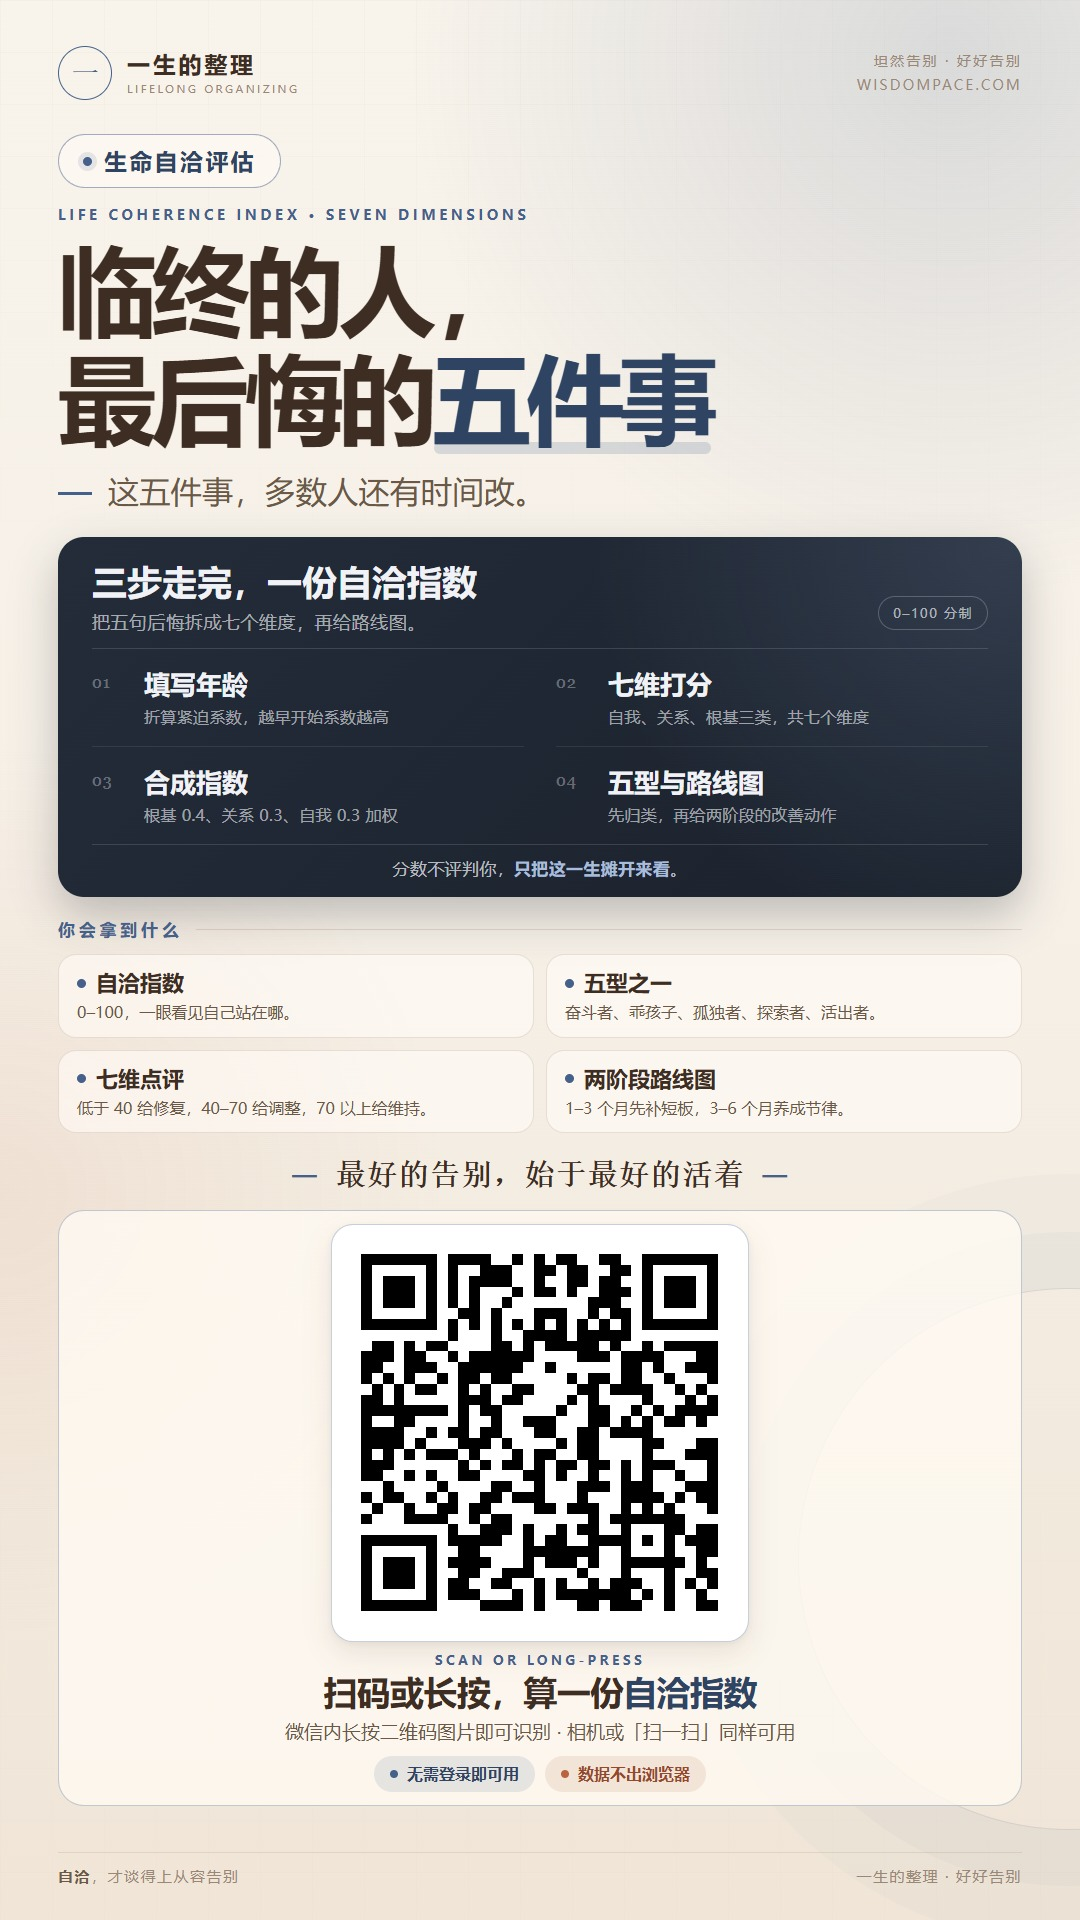
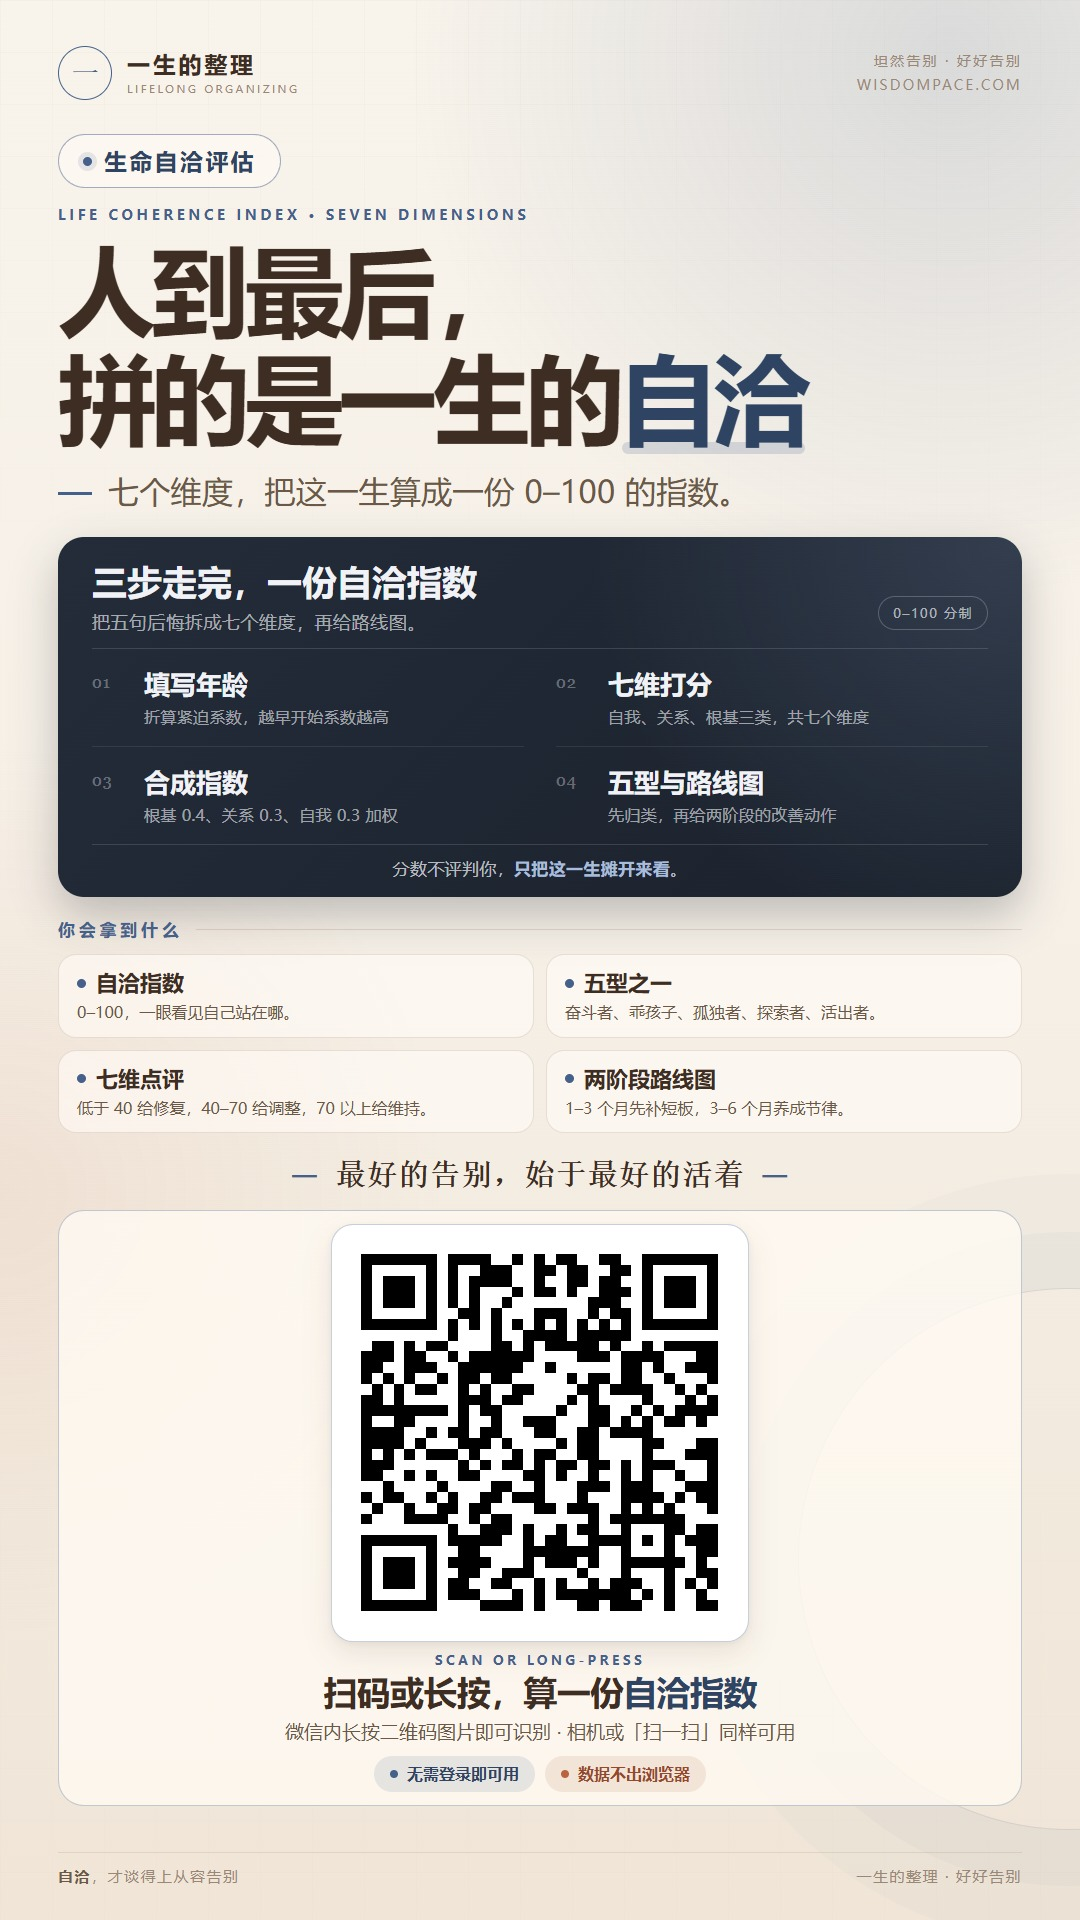
posters: 生命自洽评估主标题改为「人到最后，拼的是一生的自洽」
- 主标题从「临终的人，最后悔的五件事」改为围绕「自洽」立论：守住时间压力
  （到最后）、给出结论（拼的是自洽）、并接上平台名「一生的整理」，「一生的自洽」
  成为品牌回声
- slogan 同步替换为「七个维度，把这一生算成一份 0–100 的指数。」——原句「这五件事」
  已无对应标题；新句保留系列惯用的数字锚点（42 项／14 个／93 道／八项属性）
- 卡片副标仍保留「把五句后悔拆成七个维度」，作为研究出处的交代

未采用的两版及原因（记录备查）：
- 「人的一生，难在自洽」：两行各 4 字，标题块仅 390px 宽，海报上半部右侧空掉；
  「难在」把工具写成难题而非解法
- 「人这一生，无非追求一个内心自洽」：第二行 936px 顶到版心（可用 964），
  且「无非/追求/一个/内心」语义重叠

Changed region(s): [[0.0306, 0.125, 0.7639, 0.2812]]

diff --git a/posters/no-regrets-poster.html b/posters/no-regrets-poster.html
@@ -467,8 +467,8 @@
     <section class="hero">
       <div class="tool-chip"><span class="dot"></span>生命自洽评估</div>
       <p class="kicker">LIFE COHERENCE INDEX · SEVEN DIMENSIONS</p>
-      <h1>临终的人，<br />最后悔的<span class="accent">五件事</span></h1>
-      <p class="slogan">这五件事，多数人还有时间改。</p>
+      <h1>人到最后，<br />拼的是一生的<span class="accent">自洽</span></h1>
+      <p class="slogan">七个维度，把这一生算成一份 0–100 的指数。</p>
     </section>
 
     <section class="stage-card">
